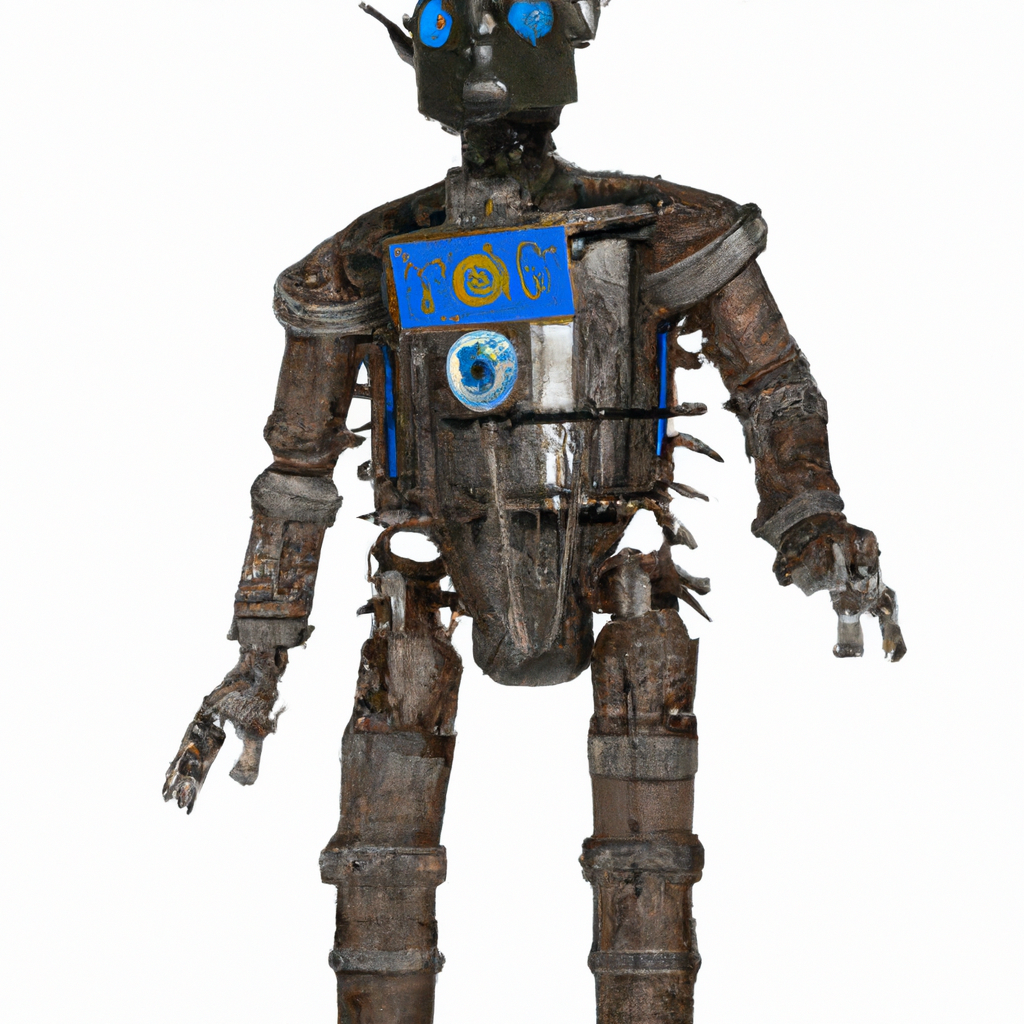
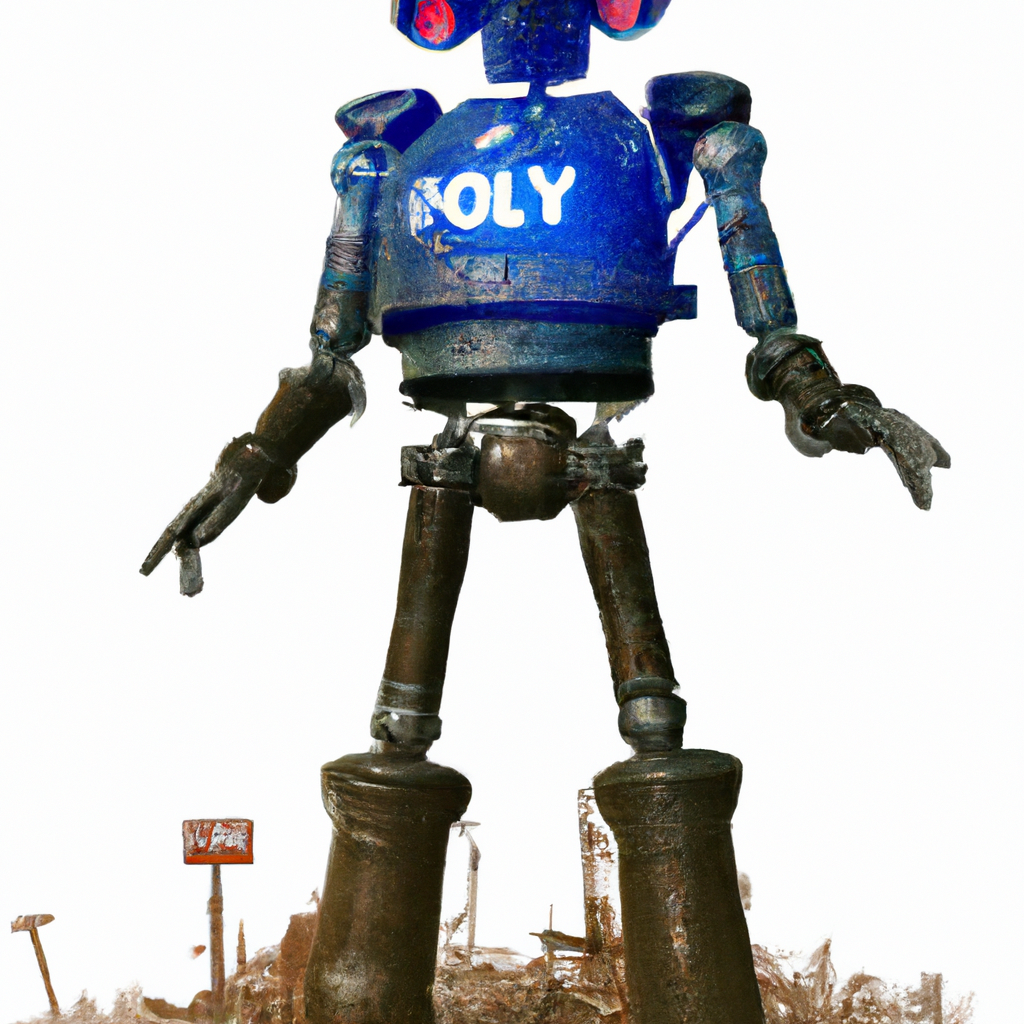
Added image 99bff4e03499b170c849e81841688392 to Caneta-Silva/cyber-tomorrow

diff --git a/images/99bff4e03499b170c849e81841688392/99bff4e03499b170c849e81841688392.md b/images/99bff4e03499b170c849e81841688392/99bff4e03499b170c849e81841688392.md
@@ -9,28 +9,28 @@
 | Field          | Value                                                                                                                     |
 |----------------|---------------------------------------------------------------------------------------------------------------------------|
 | **Image ID**             | 99bff4e03499b170c849e81841688392                                                                                                             |
-| **Title**           | Wally Wood-Inspired Alien Riot Police Robot                                                                                                       |
+| **Title**           | Invasion Enforcement: Alien Riot Police Robot                                                                                                       |
 | **Description**           | Create a landscape full body image of a alien riot police robot in the style of Wally Wood                                                                                                       |
-| **CreatedAt**        | 2024-12-03 12:22:52.096682                                                                                                        |
+| **CreatedAt**        | 2024-12-04 19:40:46.835327                                                                                                        |
 | **Model**        | dall-e-2                                                                                                        |
-| **OpenAI**         | [OpenAI Image URL](https://oaidalleapiprodscus.blob.core.windows.net/private/org-TZj0gKpq3CiXdXNznVOkBYav/user-t5KW5S6yYiCS0u4yDWasqnEP/img-woW5o82pwPBOvvsLkaQcYVzT.png?st=2024-12-03T11%3A22%3A40Z&se=2024-12-03T13%3A22%3A40Z&sp=r&sv=2024-08-04&sr=b&rscd=inline&rsct=image/png&skoid=d505667d-d6c1-4a0a-bac7-5c84a87759f8&sktid=a48cca56-e6da-484e-a814-9c849652bcb3&skt=2024-12-03T00%3A19%3A31Z&ske=2024-12-04T00%3A19%3A31Z&sks=b&skv=2024-08-04&sig=Q47%2Bsbz%2B1TRSakyva%2Be7IjC3uN1N4oIzB2EhEMoXQJ8%3D)                                                                                |
+| **OpenAI**         | [OpenAI Image URL](https://oaidalleapiprodscus.blob.core.windows.net/private/org-TZj0gKpq3CiXdXNznVOkBYav/user-t5KW5S6yYiCS0u4yDWasqnEP/img-Z0ITBW2FCl15RwbgmrCVMymF.png?st=2024-12-04T18%3A40%3A25Z&se=2024-12-04T20%3A40%3A25Z&sp=r&sv=2024-08-04&sr=b&rscd=inline&rsct=image/png&skoid=d505667d-d6c1-4a0a-bac7-5c84a87759f8&sktid=a48cca56-e6da-484e-a814-9c849652bcb3&skt=2024-12-04T19%3A23%3A50Z&ske=2024-12-05T19%3A23%3A50Z&sks=b&skv=2024-08-04&sig=1qo9tBq9prI9DTe%2Bf0ZbY3RRa0kLBBQg/B4Pgc1Q55M%3D)                                                                                |
 | **GitHub**         | [GitHub Image URL](https://github.com/Caneta-Silva/cyber-tomorrow/blob/main/images/99bff4e03499b170c849e81841688392/99bff4e03499b170c849e81841688392.jpg?raw=true)                                                                                |
 | **Tags**       | None                                                                                                                   |
 
-### 📜 58bfb84e268f2f7975c05e08c4b4ee50
+### 📜 db62dd802102d85bb85114d7b308f7d8
 
 > Create a landscape full body image of a alien riot police robot in the style of Wally Wood
 
 | Field          | Value                                                                                                                                                                      |
 |----------------|----------------------------------------------------------------------------------------------------------------------------------------------------------------------------|
-| **Prompt ID**  | 58bfb84e268f2f7975c05e08c4b4ee50                                                                                                                                                            |
+| **Prompt ID**  | db62dd802102d85bb85114d7b308f7d8                                                                                                                                                            |
 | **Prompt History** | <ul><li>**Input:**  <br> **Output:**  <br> **Type:** </li></ul> |
 | **Created At** |                                                                                                                                                    |
 | **Revised At** | None                                                                                                                                                   |
 | **Revised Prompt** | No                                                                                                                                                                      |
 | **Enhanced At** | None                                                                                                                                                  |
 | **Enhanced Prompt** | No                                                                                                                                                                    |
-| **Metadata**   | <ul><li>**Element:** riot police robot <br> **Style:** Wally Wood <br> **Aspect Ratio:** landscape <br> **Backdrop:** Martial landscape <br> **Animal:** deer <br> **Modifiers:**<ul><li>**Image:** full body</li><li>**Element:** alien</li><li>**Backdrop:** futuristic</li></ul></li></ul> |
+| **Metadata**   | <ul><li>**Element:** riot police robot <br> **Style:** Wally Wood <br> **Aspect Ratio:** landscape <br> **Backdrop:** spaceship <br> **Animal:** rhino <br> **Modifiers:**<ul><li>**Image:** full body</li><li>**Element:** alien</li><li>**Backdrop:** alien</li></ul></li></ul> |
 | **Template**   | Create a {{ aspect_ratio }} {{ modifiers.image }} image of a {{ modifiers.element }} {{ element }} in the style of {{ style }}                                                                                                                                           |
 
 
